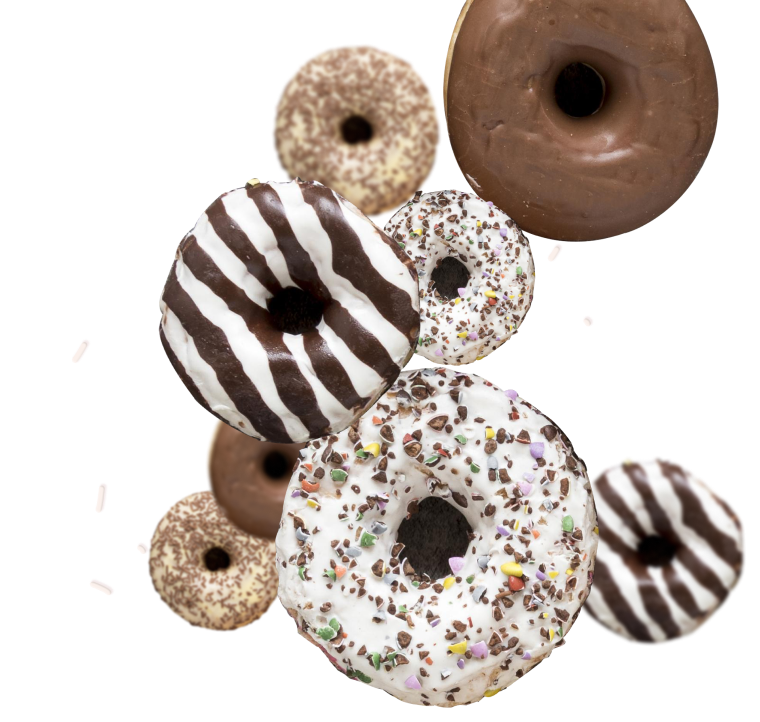
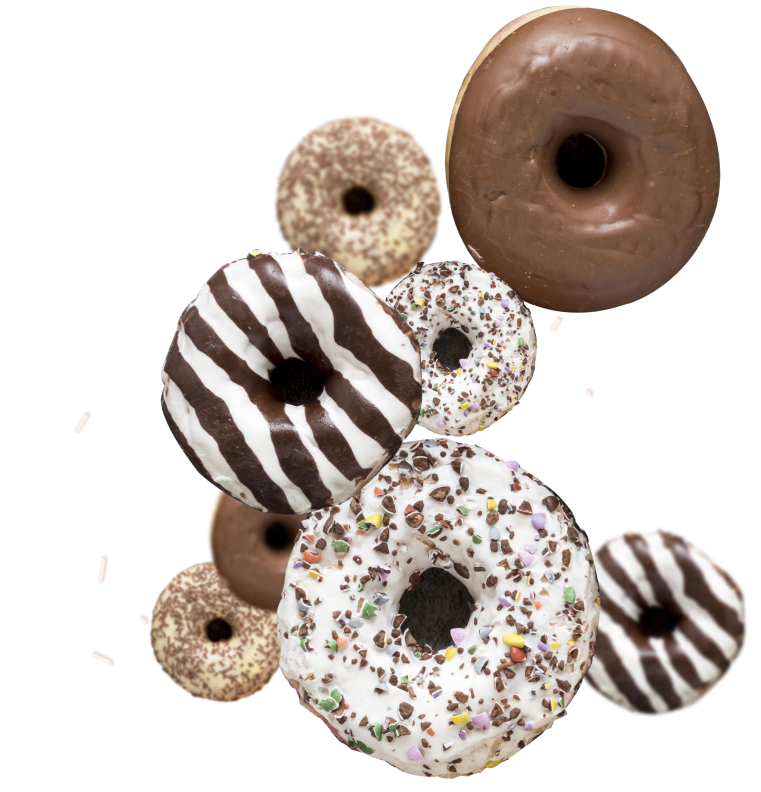
changed imgs

diff --git a/src/sass/_header.scss b/src/sass/_header.scss
@@ -123,8 +123,8 @@
   z-index: -1;
 
   @media screen and (max-width: 767.98px) {
-    top: 0;
-    left: 0;
+    top: -6px;
+    left: -12px;
 
     animation: animateX50Y100 5000ms 1000ms;
   }
@@ -148,7 +148,7 @@
   }
 
   @media screen and (min-width: 768px) and (max-width: 1279.98px) {
-    top: 0;
+    top: -35px;
     right: 137px;
 
      animation: animateX50Y100 5000ms 1000ms;
@@ -159,8 +159,8 @@
   }
 
   @media screen and (min-width: 1280px) {
-    top: 0;
-    right: 0;
+    top: -171px;
+    right: -74px;
 
     animation: animateX50 4000ms 2900ms;
   }
